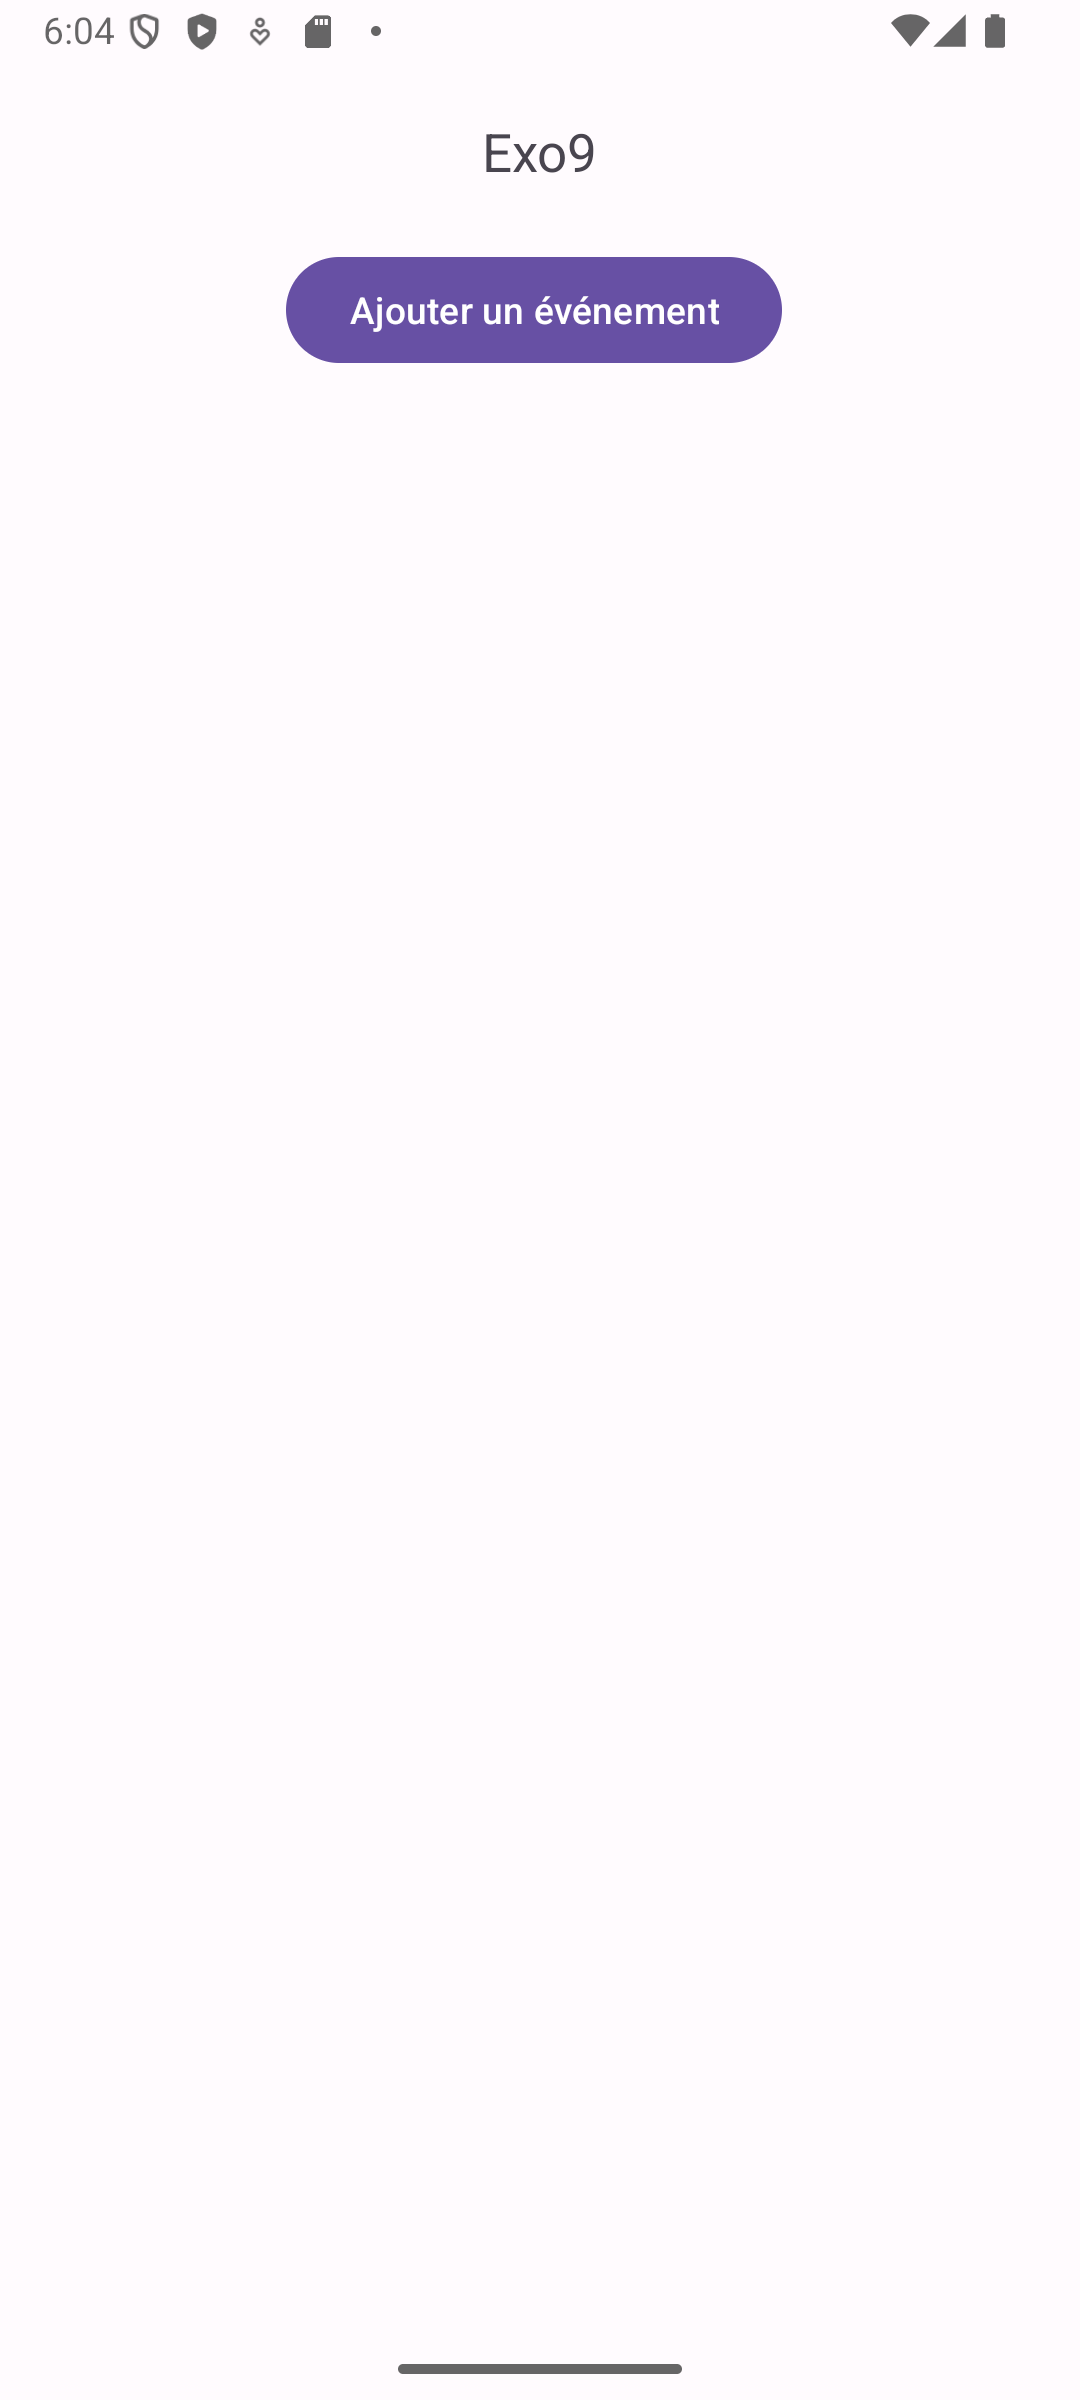
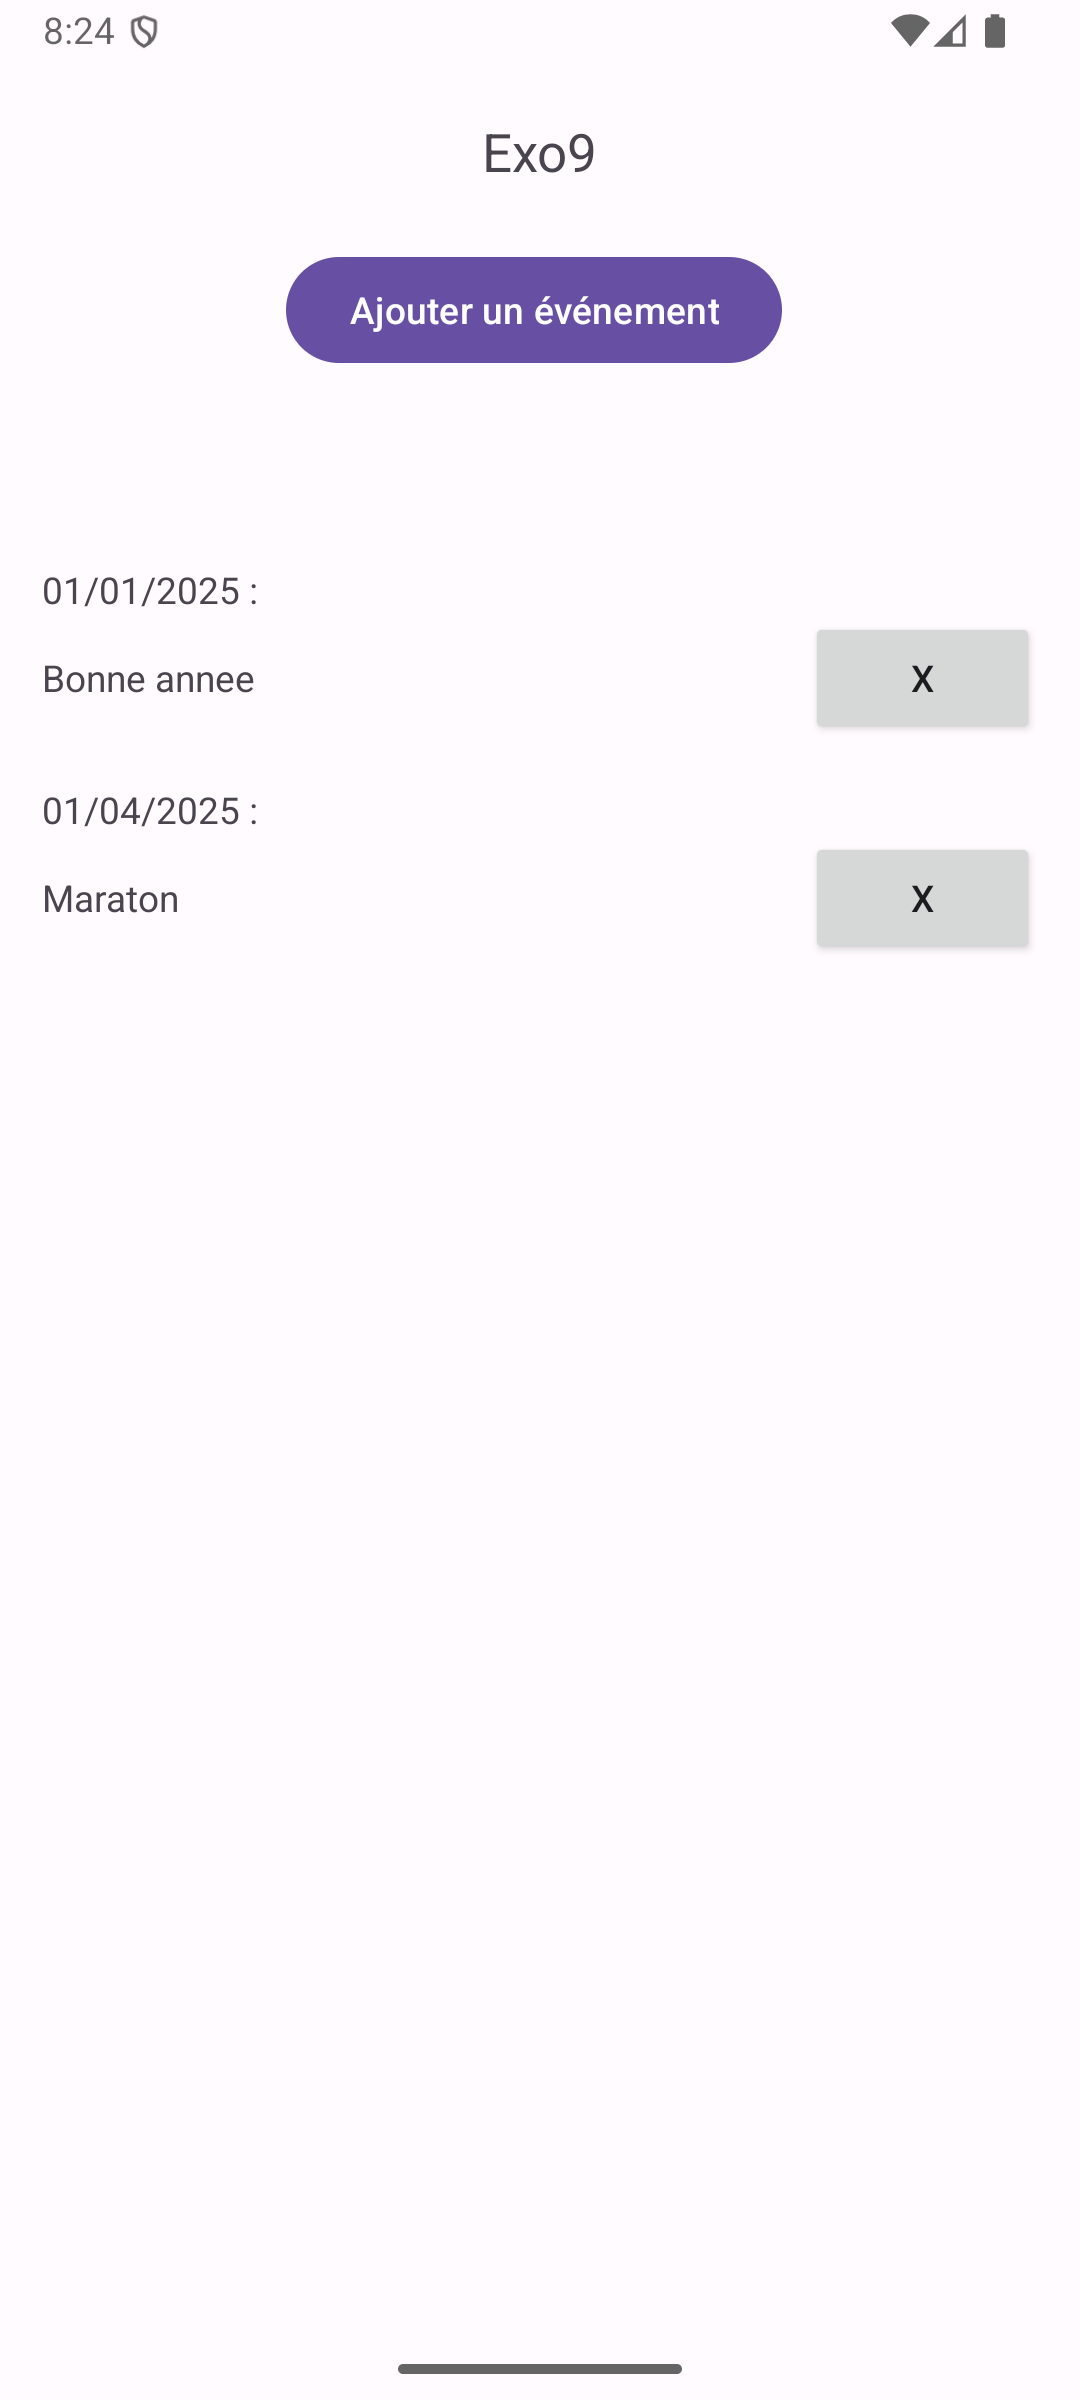
fix supperposition de del

diff --git a/app/src/main/java/com/example/myapplication/Exo9.java b/app/src/main/java/com/example/myapplication/Exo9.java
@@ -22,6 +22,7 @@ import java.util.ArrayList;
 
 public class Exo9 extends AppCompatActivity {
     private ArrayMap<String, ArrayList<String>> events = new ArrayMap<>();
+    private LinearLayout eventListLayout; //permet de stocker les événements et gracea cela de les supp
 
     @SuppressLint({"SetTextI18n", "MissingInflatedId"})
     @Override
@@ -34,6 +35,8 @@ public class Exo9 extends AppCompatActivity {
             v.setPadding(systemBars.left, systemBars.top, systemBars.right, systemBars.bottom);
             return insets;
         });
+
+        eventListLayout = findViewById(R.id.eventListLayout);
 
         Button button = findViewById(R.id.addEvent);
         button.setOnClickListener(v -> {
@@ -65,17 +68,7 @@ public class Exo9 extends AppCompatActivity {
                     events.put(key, list);
                 }
 
-                TextView textView = findViewById(R.id.textView2);
-                StringBuilder text = new StringBuilder();
-                for (String evkey : events.keySet()) {
-                    text.append(evkey).append(" : ");
-                    for (String evvalue : events.get(evkey)) {
-                        text.append(evvalue).append(", ");
-                    }
-                    text.delete(text.length() - 2, text.length());
-                    text.append("\n");
-                }
-                textView.setText(text.toString());
+                updateEventList();
 
 
             });
@@ -86,6 +79,7 @@ public class Exo9 extends AppCompatActivity {
         });
 
 
+        updateEventList();
 
 
 
@@ -93,6 +87,45 @@ public class Exo9 extends AppCompatActivity {
 
 
 
+    }
 
+
+    private void updateEventList() {
+        eventListLayout.removeAllViews(); //on supprime les évènement pour les raficher
+        for (String key : events.keySet()) {
+            LinearLayout list = new LinearLayout(this);
+            list.setOrientation(LinearLayout.VERTICAL);
+
+            TextView eventText = new TextView(this);
+            eventText.setText("\n" + key + " : ");
+            list.addView(eventText);
+
+            for (String value : events.get(key)) {
+                LinearLayout delLayout = new LinearLayout(this);
+                delLayout.setOrientation(LinearLayout.HORIZONTAL);
+
+                TextView event = new TextView(this);
+                event.setText(value);
+                LinearLayout.LayoutParams eventParams = new LinearLayout.LayoutParams(0, LinearLayout.LayoutParams.WRAP_CONTENT, 1f); //param pour le textview
+                event.setLayoutParams(eventParams);
+                delLayout.addView(event);
+
+                Button deleteButton = new Button(this);
+                deleteButton.setText("X");
+                LinearLayout.LayoutParams buttonParams = new LinearLayout.LayoutParams(LinearLayout.LayoutParams.WRAP_CONTENT, LinearLayout.LayoutParams.WRAP_CONTENT); //param pour le bouton
+                deleteButton.setLayoutParams(buttonParams);
+                deleteButton.setOnClickListener(v -> {
+                    events.get(key).remove(value);
+                    if (events.get(key).isEmpty()) {
+                        events.remove(key);
+                    }
+                    updateEventList();
+                });
+                delLayout.addView(deleteButton);
+
+                list.addView(delLayout);
+            }
+            eventListLayout.addView(list);
+        }
     }
 }

diff --git a/app/src/main/java/com/example/myapplication/SelectExo.java b/app/src/main/java/com/example/myapplication/SelectExo.java
@@ -2,7 +2,6 @@ package com.example.myapplication;
 
 import android.content.Intent;
 import android.os.Bundle;
-import android.view.View;
 import android.widget.Button;
 
 import androidx.activity.EdgeToEdge;
@@ -25,7 +24,7 @@ public class SelectExo extends AppCompatActivity {
 
         Button buttonExo2 = findViewById(R.id.button_exo2);
         buttonExo2.setOnClickListener(v -> {
-            Intent intent = new Intent(SelectExo.this, MainActivity.class); //pas bien compris pour quoi il faut spécifier la classe si jamais diapo 61
+            Intent intent = new Intent(SelectExo.this, MainActivity.class);
             startActivity(intent);
         });
 
